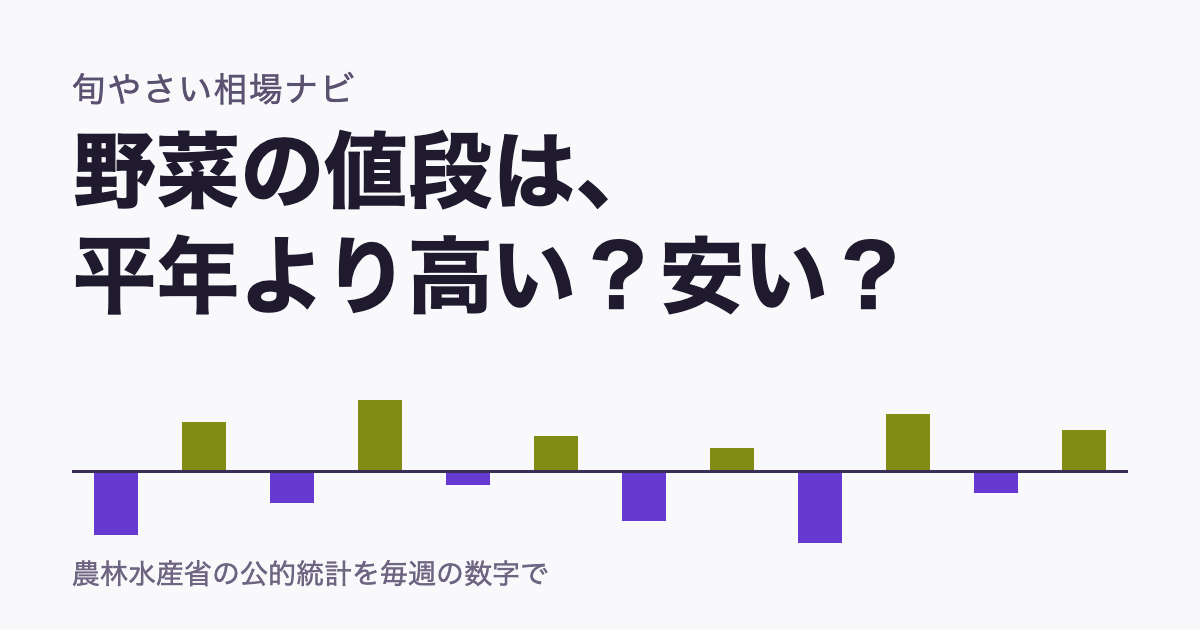
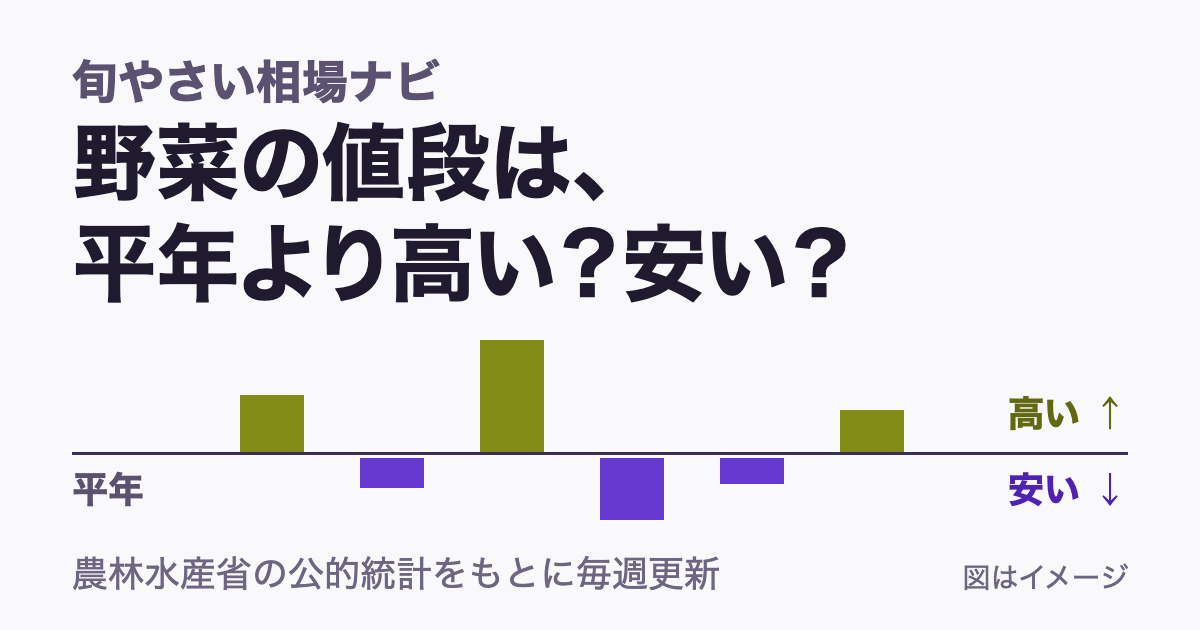
fix(og): 共有カードに平年線のラベルと出典の完結文を入れ、縮小でも読める大きさにする

Changed region(s): [[0.0617, 0.0905, 0.7708, 0.5127], [0.0617, 0.5127, 0.925, 0.9349], [0.8017, 0.8746, 0.9558, 0.9349]]

diff --git a/scripts/og-card.html b/scripts/og-card.html
@@ -3,30 +3,28 @@
 <style>
   html,body{margin:0;width:1200px;height:630px;overflow:hidden}
   body{background:hsl(258 24% 98%);color:hsl(258 28% 14%);font-family:"BIZ UDPGothic","Hiragino Sans","Noto Sans JP",sans-serif;position:relative}
-  .name{position:absolute;left:72px;top:64px;font-size:34px;letter-spacing:.04em;color:hsl(258 16% 38%)}
-  h1{position:absolute;left:72px;top:118px;margin:0;width:1056px;font-size:84px;line-height:1.25;font-weight:700}
-  .datum{position:absolute;left:72px;right:72px;top:470px;height:3px;background:hsl(258 30% 26%)}
-  .lab{position:absolute;left:72px;top:488px;font-size:30px;color:hsl(258 16% 38%)}
-  .lab.r{left:auto;right:72px}
-  .bar{position:absolute;width:44px;bottom:160px;background:hsl(258 62% 52%)}
-  .bar.up{top:auto;bottom:auto;background:hsl(66 72% 32%)}
-  .src{position:absolute;left:72px;bottom:36px;font-size:28px;color:hsl(258 12% 45%)}
+  .name{position:absolute;left:72px;top:48px;font-size:46px;font-weight:700;color:hsl(258 16% 38%)}
+  h1{position:absolute;left:72px;top:112px;margin:0;width:1056px;font-size:84px;line-height:1.2;font-weight:700;font-feature-settings:"palt"}
+  .datum{position:absolute;left:72px;right:72px;top:452px;height:3px;background:hsl(258 30% 26%)}
+  .lab{position:absolute;font-size:36px;font-weight:700}
+  .hi{color:hsl(66 72% 24%)} .lo{color:hsl(258 68% 42%)} .mid{color:hsl(258 16% 38%)}
+  .bar{position:absolute;width:64px}
+  .foot{position:absolute;left:72px;bottom:30px;font-size:36px;color:hsl(258 12% 45%)}
+  .note{position:absolute;right:72px;bottom:32px;font-size:28px;color:hsl(258 12% 45%)}
 </style></head><body>
 <div class="name">旬やさい相場ナビ</div>
 <h1>野菜の値段は、<br>平年より高い？安い？</h1>
 <div class="datum"></div>
-<!-- 平年線(基準)からの直交する量。下=安い(青紫) / 上=高い(黄緑) -->
-<div class="bar" style="left:94px;top:473px;height:62px;bottom:auto;background:hsl(258 62% 52%)"></div>
-<div class="bar" style="left:182px;top:422px;height:48px;bottom:auto;background:hsl(66 72% 32%)"></div>
-<div class="bar" style="left:270px;top:473px;height:30px;bottom:auto;background:hsl(258 62% 52%)"></div>
-<div class="bar" style="left:358px;top:400px;height:70px;bottom:auto;background:hsl(66 72% 32%)"></div>
-<div class="bar" style="left:446px;top:473px;height:12px;bottom:auto;background:hsl(258 62% 52%)"></div>
-<div class="bar" style="left:534px;top:436px;height:34px;bottom:auto;background:hsl(66 72% 32%)"></div>
-<div class="bar" style="left:622px;top:473px;height:48px;bottom:auto;background:hsl(258 62% 52%)"></div>
-<div class="bar" style="left:710px;top:448px;height:22px;bottom:auto;background:hsl(66 72% 32%)"></div>
-<div class="bar" style="left:798px;top:473px;height:70px;bottom:auto;background:hsl(258 62% 52%)"></div>
-<div class="bar" style="left:886px;top:414px;height:56px;bottom:auto;background:hsl(66 72% 32%)"></div>
-<div class="bar" style="left:974px;top:473px;height:20px;bottom:auto;background:hsl(258 62% 52%)"></div>
-<div class="bar" style="left:1062px;top:430px;height:40px;bottom:auto;background:hsl(66 72% 32%)"></div>
-<div class="src">農林水産省の公的統計を毎週の数字で</div>
+<div class="lab mid" style="left:72px;top:462px">平年</div>
+<div class="lab hi" style="right:72px;top:386px">高い ↑</div>
+<div class="lab lo" style="right:72px;top:462px">安い ↓</div>
+<!-- 平年線からの量。上=高い(黄緑) / 下=安い(青紫)。図はイメージで実データではない -->
+<div class="bar" style="left:240px;top:395px;height:57px;background:hsl(66 72% 32%)"></div>
+<div class="bar" style="left:360px;top:458px;height:30px;background:hsl(258 62% 52%)"></div>
+<div class="bar" style="left:480px;top:340px;height:112px;background:hsl(66 72% 32%)"></div>
+<div class="bar" style="left:600px;top:458px;height:62px;background:hsl(258 62% 52%)"></div>
+<div class="bar" style="left:720px;top:458px;height:26px;background:hsl(258 62% 52%)"></div>
+<div class="bar" style="left:840px;top:410px;height:42px;background:hsl(66 72% 32%)"></div>
+<div class="foot">農林水産省の公的統計をもとに毎週更新</div>
+<div class="note">図はイメージ</div>
 </body></html>
